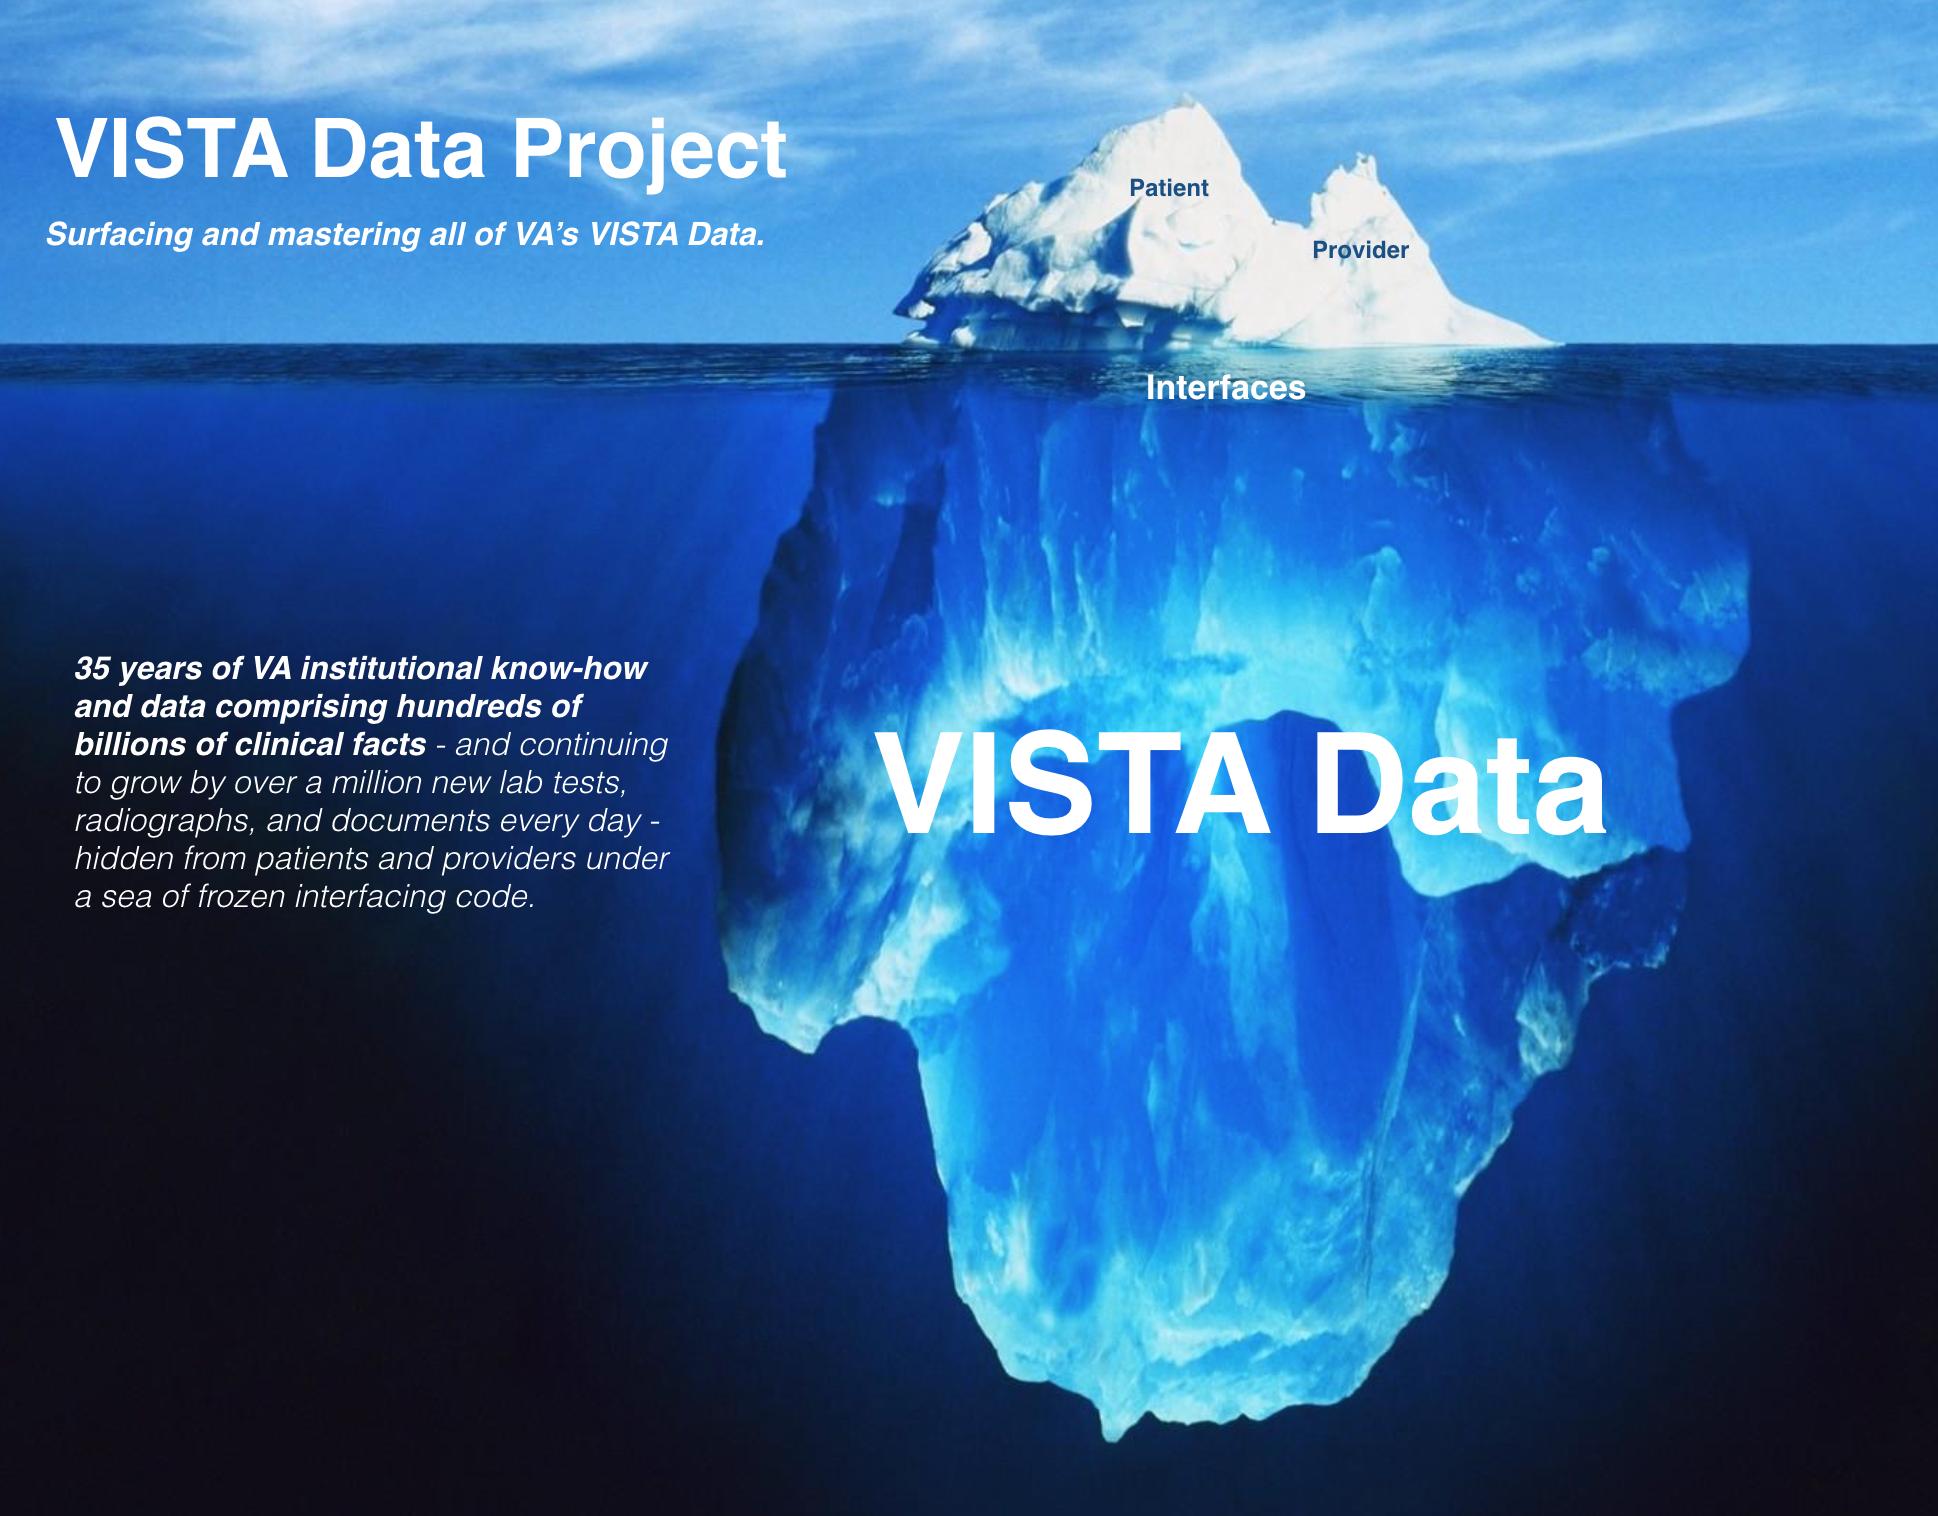
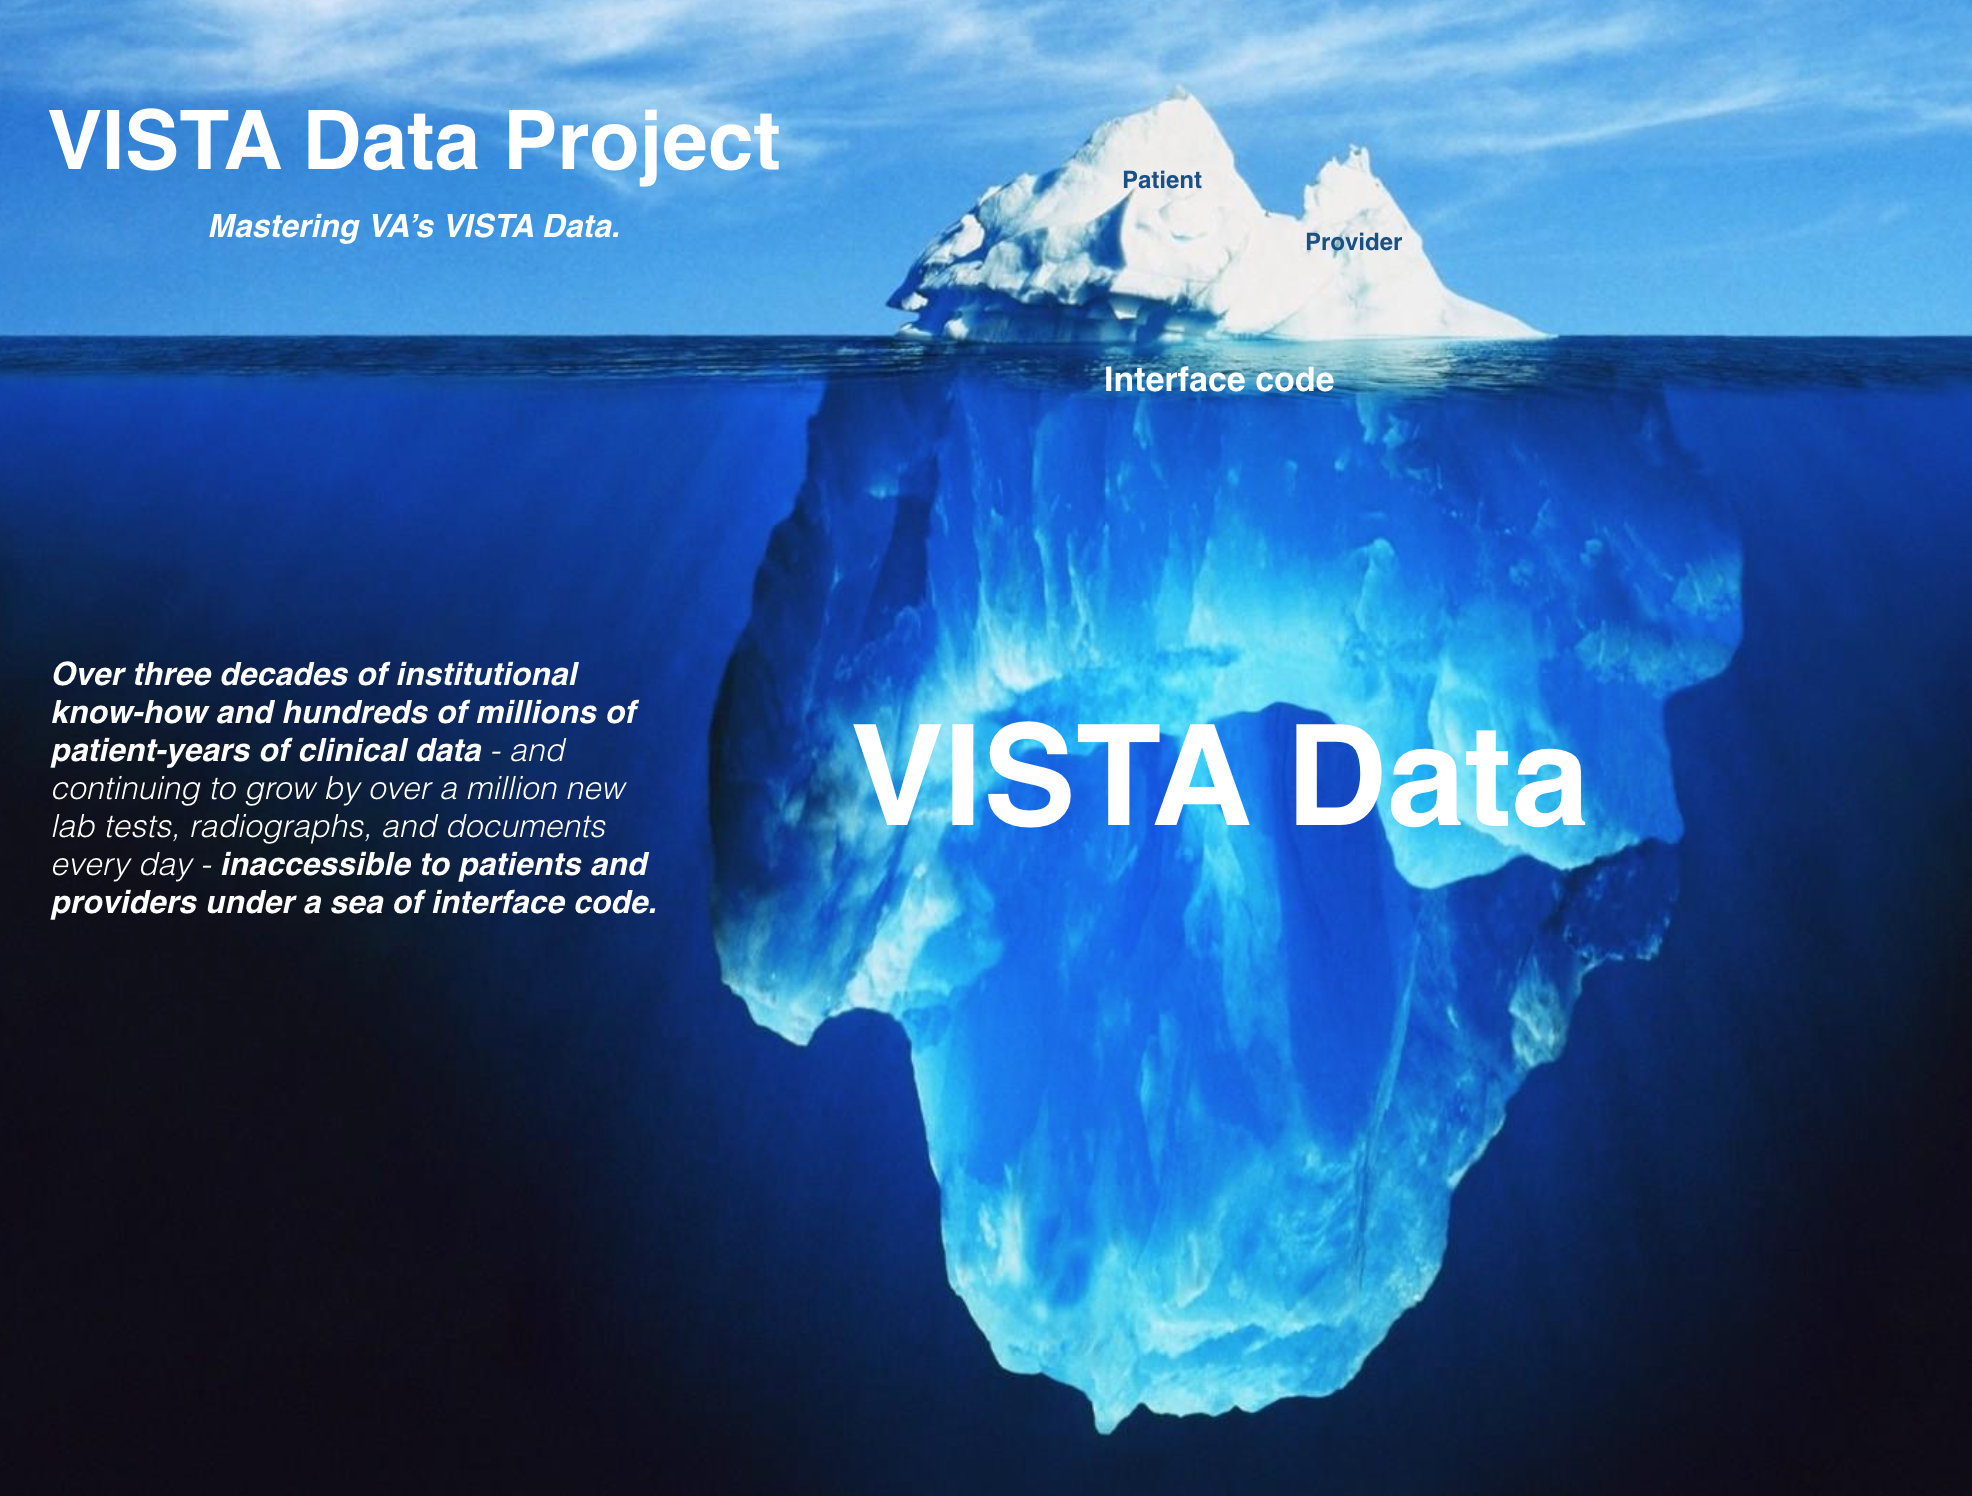
vdp iceberg

Changed region(s): [[0.0, 0.0, 1.0, 0.9532], [0.031, 0.0, 0.4334, 0.1845], [0.9598, 0.0615, 1.0, 0.0922]]

diff --git a/index.md b/index.md
@@ -2,7 +2,7 @@
 layout: default
 title: VistA Data Project - Continuity of Veteran Data
 ---
-![vdp-iceberg -width95](assets/vdp-iceberg2.png)
+![vdp-iceberg -width95](assets/vdp-iceberg.png)
 
 ### VISTA Data Project
 
